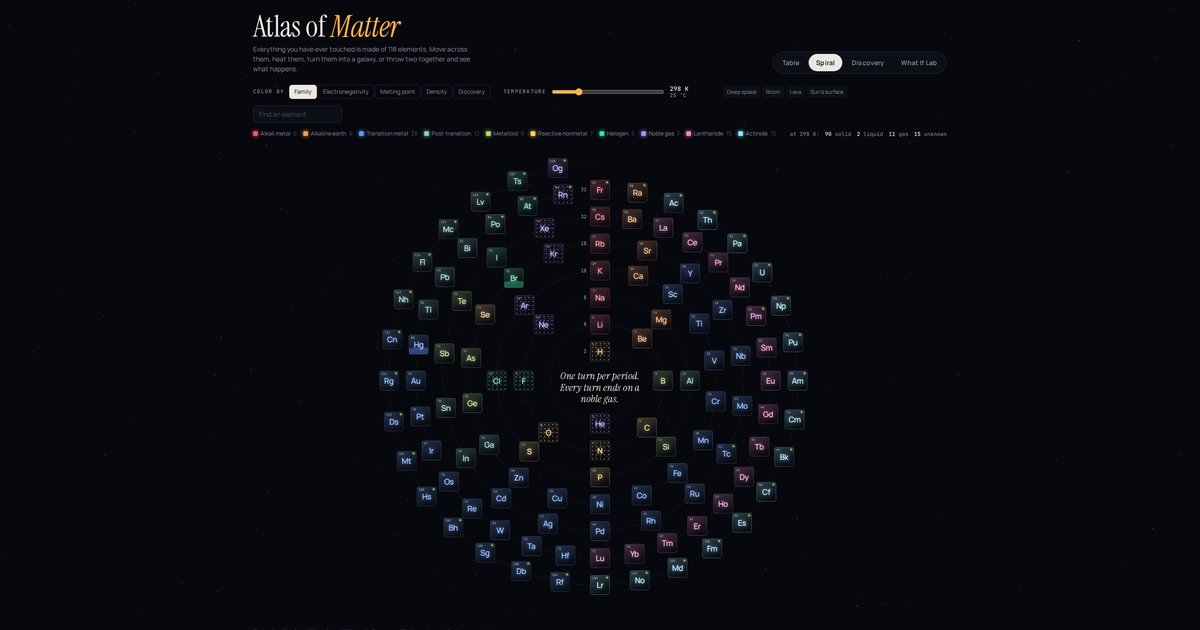
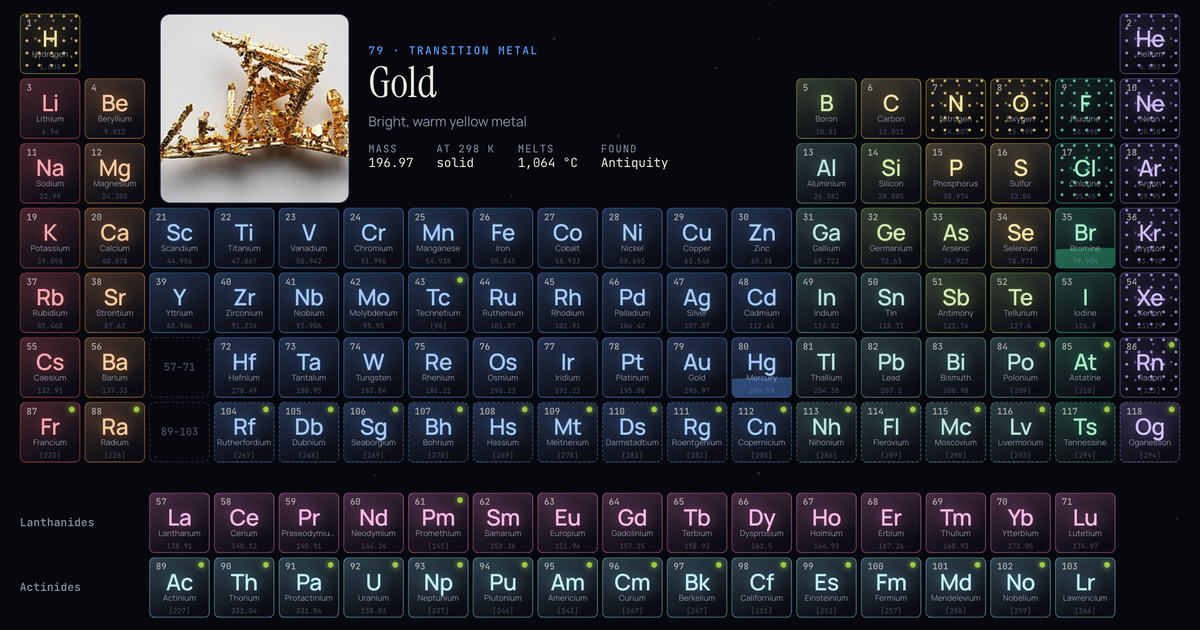
Use a sharp Table view screenshot for the link preview
The Spiral preview was rendered at 2560 px wide and scaled down to less
than half, so its text looked hazy, especially once LinkedIn shrinks it
again for the feed. The new image is the Table view rendered at 2x and
cropped tightly to the table and the gold feature panel.

- assets/preview.png: new 1200x630 Table view screenshot
- index.html: image alt text now describes the Table view; image URL gets
  ?v=2 so LinkedIn and others fetch the new image instead of a cached one

diff --git a/index.html b/index.html
@@ -11,15 +11,15 @@
 <meta property="og:url" content="https://sbasu-math.github.io/atlas-of-matter/">
 <meta property="og:title" content="Atlas of Matter">
 <meta property="og:description" content="An interactive periodic table: 118 elements that react to your cursor, melt and boil as you change the temperature, and combine in a What If Lab that builds any known compound from PubChem.">
-<meta property="og:image" content="https://sbasu-math.github.io/atlas-of-matter/assets/preview.png">
+<meta property="og:image" content="https://sbasu-math.github.io/atlas-of-matter/assets/preview.png?v=2">
 <meta property="og:image:width" content="1200">
 <meta property="og:image:height" content="630">
-<meta property="og:image:alt" content="Atlas of Matter in Spiral view: the 118 elements arranged in a spiral, one turn per period">
+<meta property="og:image:alt" content="Atlas of Matter in Table view: the periodic table of 118 elements with a featured photo of gold">
 <meta name="twitter:card" content="summary_large_image">
 <meta name="twitter:title" content="Atlas of Matter">
 <meta name="twitter:description" content="An interactive periodic table: 118 elements that react to your cursor, melt and boil as you change the temperature, and combine in a What If Lab that builds any known compound from PubChem.">
-<meta name="twitter:image" content="https://sbasu-math.github.io/atlas-of-matter/assets/preview.png">
-<meta name="twitter:image:alt" content="Atlas of Matter in Spiral view: the 118 elements arranged in a spiral, one turn per period">
+<meta name="twitter:image" content="https://sbasu-math.github.io/atlas-of-matter/assets/preview.png?v=2">
+<meta name="twitter:image:alt" content="Atlas of Matter in Table view: the periodic table of 118 elements with a featured photo of gold">
 <link rel="preconnect" href="https://fonts.googleapis.com">
 <link rel="preconnect" href="https://fonts.gstatic.com" crossorigin>
 <link rel="stylesheet" href="https://fonts.googleapis.com/css2?family=Instrument+Serif:ital@0;1&family=Manrope:wght@400;500;600;700&family=JetBrains+Mono:wght@400;500&display=swap">
